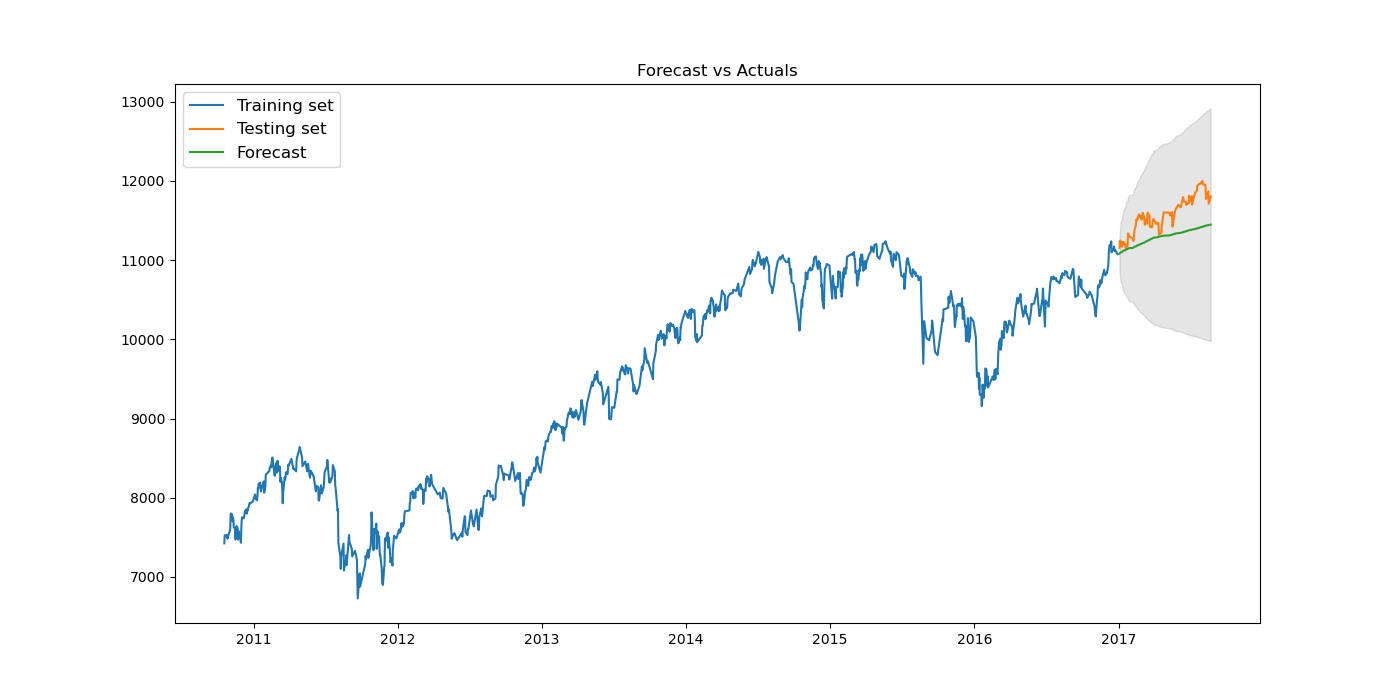
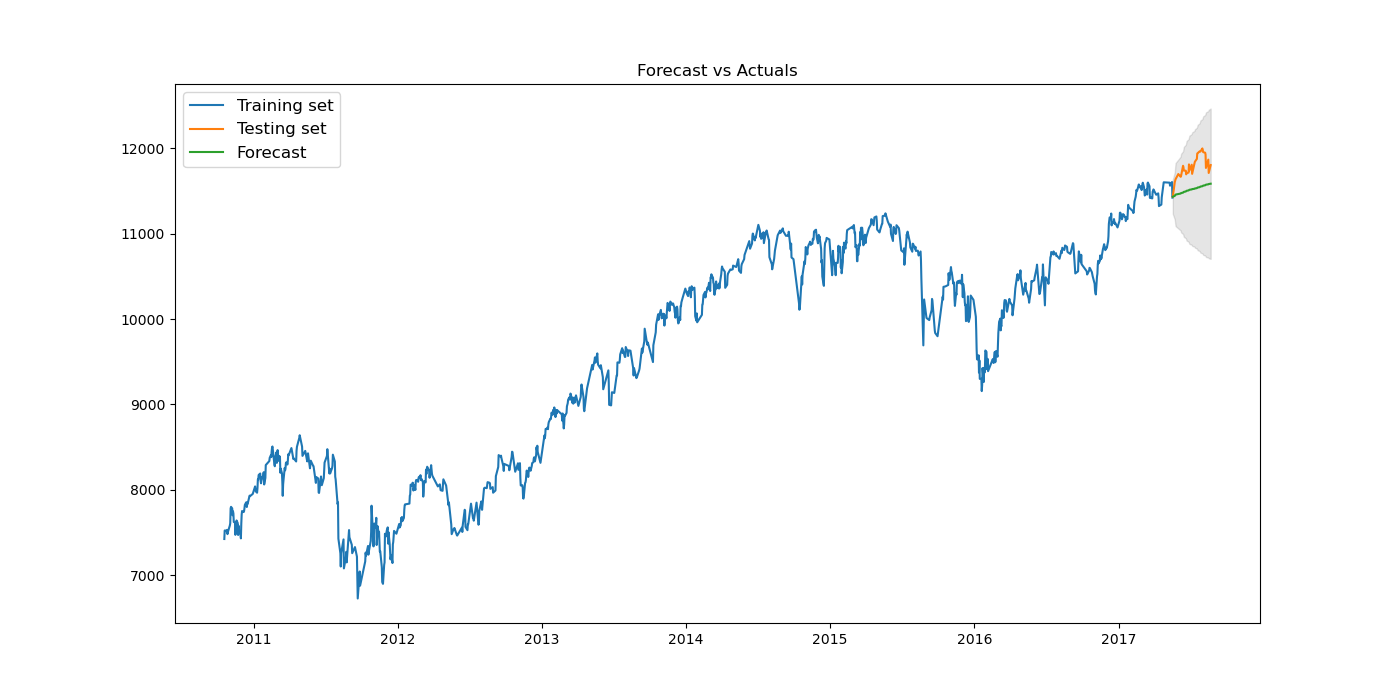
updating Ass 2

diff --git a/code/Ass2/Ass2-Q4.py b/code/Ass2/Ass2-Q4.py
@@ -110,7 +110,7 @@ fig = plt.plot(series_diff)
 plt.savefig(os.path.join(fig_dir, a + "1diff_Close_signal.png"))
 
 print("[INFO] 'df' is now a stationary dataset...")
-df = series[series.columns[0:9]]
+df = df_scaled[series.columns[0:9]]
 df["Close"] = series_diff
 df.dropna(inplace=True)
 
@@ -245,15 +245,20 @@ for i, (col, ax) in enumerate(zip(df.columns, axes.flatten())):
     ax.tick_params(labelsize=6)
 
 plt.tight_layout()
-plt.savefig(os.path.join(fig_dir, a + "Forecast_vs_Actuals.png"))
+plt.savefig(os.path.join(fig_dir, a + "00_Forecast_vs_Actuals.png"))
 
 
 fig = plt.figure(dpi=150, figsize=(12, 7))
 df_results["Close_original_forecast"].plot(legend=True).autoscale(axis="x", tight=True)
 series["Close"][-nobs:].plot(legend=True)
 plt.tight_layout()
-plt.savefig(os.path.join(fig_dir, a + "Forecast_vs_Actuals_of_close.png"))
+plt.savefig(os.path.join(fig_dir, a + "00_Forecast_vs_Actuals_of_close.png"))
 
+
+rmse = np.sqrt(
+    mean_squared_error(series["Close"][-nobs:], df_results["Close_original_forecast"])
+)
+print("[INFO] RMS error: %.3f" % rmse)
 ############################################################################
 #########            Rolling Forecast of ARIMA model.             ##########
 ############################################################################
@@ -286,7 +291,7 @@ for t in range(nobs):
 
     # Forecast
     fc = model_fit.forecast(y=forecast_input, steps=1)
-    print((fc.squeeze().tolist()))
+    # print((fc.squeeze().tolist()))
 
     predictions.append(fc.squeeze().tolist())
     # print(df_test.iloc[t, :])
@@ -299,7 +304,7 @@ for t in range(nobs):
 
 
 # print(predictions.shape)
-print(predictions)
+# print(predictions)
 
 print("[INFO] Invert the transformation to get the real forecast... ")
 df_forecast = pd.DataFrame(
@@ -313,13 +318,13 @@ for col in columns:
     if col == "Close":
         df_fc[str(col) + "_original_forecast"] = (
             series["Close"].iloc[-100]
-            + (-Standard_scaler.scale_[0]) * df_fc[str(col) + "_forecast"].cumsum()
+            + (Standard_scaler.scale_[0]) * df_fc[str(col) + "_forecast"].cumsum()
         )
     else:
         df_fc[str(col) + "_original_forecast"] = (
-            Standard_scaler.scale_[i]) * df_fc[str(col) + "_forecast"]
-            + Standard_scaler.mean_[i]
-        )
+            Standard_scaler.scale_[i] * df_fc[str(col) + "_forecast"]
+        ) + Standard_scaler.mean_[i]
+
         i = i + 1
 
 
@@ -340,37 +345,32 @@ for i, (col, ax) in enumerate(zip(df.columns, axes.flatten())):
     ax.tick_params(labelsize=6)
 
 plt.tight_layout()
-plt.savefig(os.path.join(fig_dir, a + "Rolling_Forecast_vs_Actuals.png"))
+plt.savefig(os.path.join(fig_dir, a + "0_Rolling_Forecast_vs_Actuals.png"))
 
 
 fig = plt.figure(dpi=150, figsize=(12, 7))
 df_results["Close_original_forecast"].plot(legend=True).autoscale(axis="x", tight=True)
 series["Close"][-nobs:].plot(legend=True)
 plt.tight_layout()
-plt.savefig(os.path.join(fig_dir, a + "Rolling_Forecast_vs_Actuals_of_close.png"))
+plt.savefig(os.path.join(fig_dir, a + "0_Rolling_Forecast_vs_Actuals_of_close.png"))
 
 
-fig = plt.figure(dpi=150, figsize=(12, 7))
-df_results["Close_original_forecast"].plot(legend=True).autoscale(axis="x", tight=True)
-series["Close"][-nobs:].plot(legend=True)
-plt.tight_layout()
-plt.savefig(os.path.join(fig_dir, a + "Forecast_vs_Actuals_of_close.png"))
+# df_fc["original_forecast"] = (
+#     series["Close"].iloc[-nobs]
+#     + (-Standard_scaler.scale_[0]) * df_fc["close_forecast"].cumsum()
+# )
+# df_results = df_fc["original_forecast"]
 
+# print("[INFO] saving the plot of forecast...")
+# plt.figure(dpi=150)
+# plt.plot(series["Close"], label="training and testing data")
+# plt.plot(df_results.T, label="forecast")
+# plt.title("Forecast vs Actuals")
+# plt.legend(loc="upper left", fontsize=8)
+# plt.tight_layout()
+# plt.savefig(os.path.join(fig_dir, a + "0_Rolling_Forecast_vs_Actuals.png"))
 
-df_fc["original_forecast"] = (
-    series["Close"].iloc[-nobs]
-    + (-Standard_scaler.scale_[0]) * df_fc["close_forecast"].cumsum()
+rmse = np.sqrt(
+    mean_squared_error(series["Close"][-nobs:], df_results["Close_original_forecast"])
 )
-df_results = df_fc["original_forecast"]
-
-print("[INFO] saving the plot of forecast...")
-plt.figure(dpi=150)
-plt.plot(series["Close"], label="training and testing data")
-plt.plot(df_results.T, label="forecast")
-plt.title("Forecast vs Actuals")
-plt.legend(loc="upper left", fontsize=8)
-plt.tight_layout()
-plt.savefig(os.path.join(fig_dir, a + "Rolling_Forecast_vs_Actuals.png"))
-
-rmse = np.sqrt(mean_squared_error(series["Close"][-nobs:], df_fc["original_forecast"]))
 print("[INFO] RMS error: %.3f" % rmse)

diff --git a/code/Ass2/Ass2-Q2.py b/code/Ass2/Ass2-Q2.py
@@ -134,7 +134,7 @@ with open(os.path.join(tbl_dir, a + "ADF_1diff.tex"), "w") as tf:
 ############################################################################
 #########                     fitting ARIMA                       ##########
 ############################################################################
-nobs = 100
+nobs = 35
 orders = [1, 1, 1]
 
 print("[INFO] Create Training and Test set...")
@@ -149,10 +149,10 @@ model_fitted = model.fit(disp=-1)
 
 print("[INFO] saving the plot of residual...")
 residuals = pd.Series(model_fitted.resid, index=train.index)
-fig, ax = plt.subplots(3, 1)
+fig, ax = plt.subplots(2, 1)
 residuals.plot(title="Residuals", ax=ax[0])
 residuals.plot(kind="kde", title="Density", ax=ax[1])
-plot_acf(residuals, title="ACF", ax=ax[2])
+# plot_acf(residuals, lags=50, title="ACF", ax=ax[2])
 plt.savefig(os.path.join(fig_dir, a + "residual_plot.png"))
 
 
@@ -248,8 +248,7 @@ print("[INFO] Test RMS error: %.3f" % rmse)
 ############################################################################
 #########            Rolling Forecast of ARIMA model.             ##########
 ############################################################################
-nobs = 100
-orders = [1, 1, 1]
+
 X = series["Close"].values
 size = len(X) - nobs
 window = 500  # = 3 * 365

diff --git a/code/Ass2/Ass2-Q3.py b/code/Ass2/Ass2-Q3.py
@@ -51,6 +51,17 @@ series = pd.read_csv(
     date_parser=parser,
 ).dropna()
 
+fig, axes = plt.subplots(nrows=3, ncols=3, dpi=120, figsize=(10, 6))
+
+for i, ax in enumerate(axes.flatten()):
+    data = series[series.columns[i]]
+    ax.plot(data, color="blue", linewidth=1)
+    ax.set_title(series.columns[i])
+
+plt.tight_layout()
+plt.savefig(os.path.join(fig_dir, a + "raw_signal.png"))
+
+
 ############################################################################
 #########                      Standardzation                     ##########
 ############################################################################
@@ -250,7 +261,6 @@ plt.figure()
 plt.plot(series["Close"][window:size], label="train set")
 plt.legend()
 plt.savefig(os.path.join(fig_dir, a + "Rolling_trainset.png"))
-
 
 
 for t in range(nobs):

diff --git a/manuscript/src/tables/Ass2/Ass2_Q2_residuals_statistics.tex b/manuscript/src/tables/Ass2/Ass2_Q2_residuals_statistics.tex
@@ -2,13 +2,13 @@
 \toprule
 {} &            0 \\
 \midrule
-count &  1013.000000 \\
-mean  &     0.050905 \\
-std   &   105.179326 \\
-min   &  -809.869624 \\
-25\%   &   -45.945500 \\
-50\%   &     6.583371 \\
-75\%   &    56.981246 \\
-max   &   435.901272 \\
+count &  1078.000000 \\
+mean  &     0.047378 \\
+std   &   102.935064 \\
+min   &  -810.365960 \\
+25\%   &   -45.531224 \\
+50\%   &     5.292063 \\
+75\%   &    55.752864 \\
+max   &   435.533562 \\
 \bottomrule
 \end{tabular}
